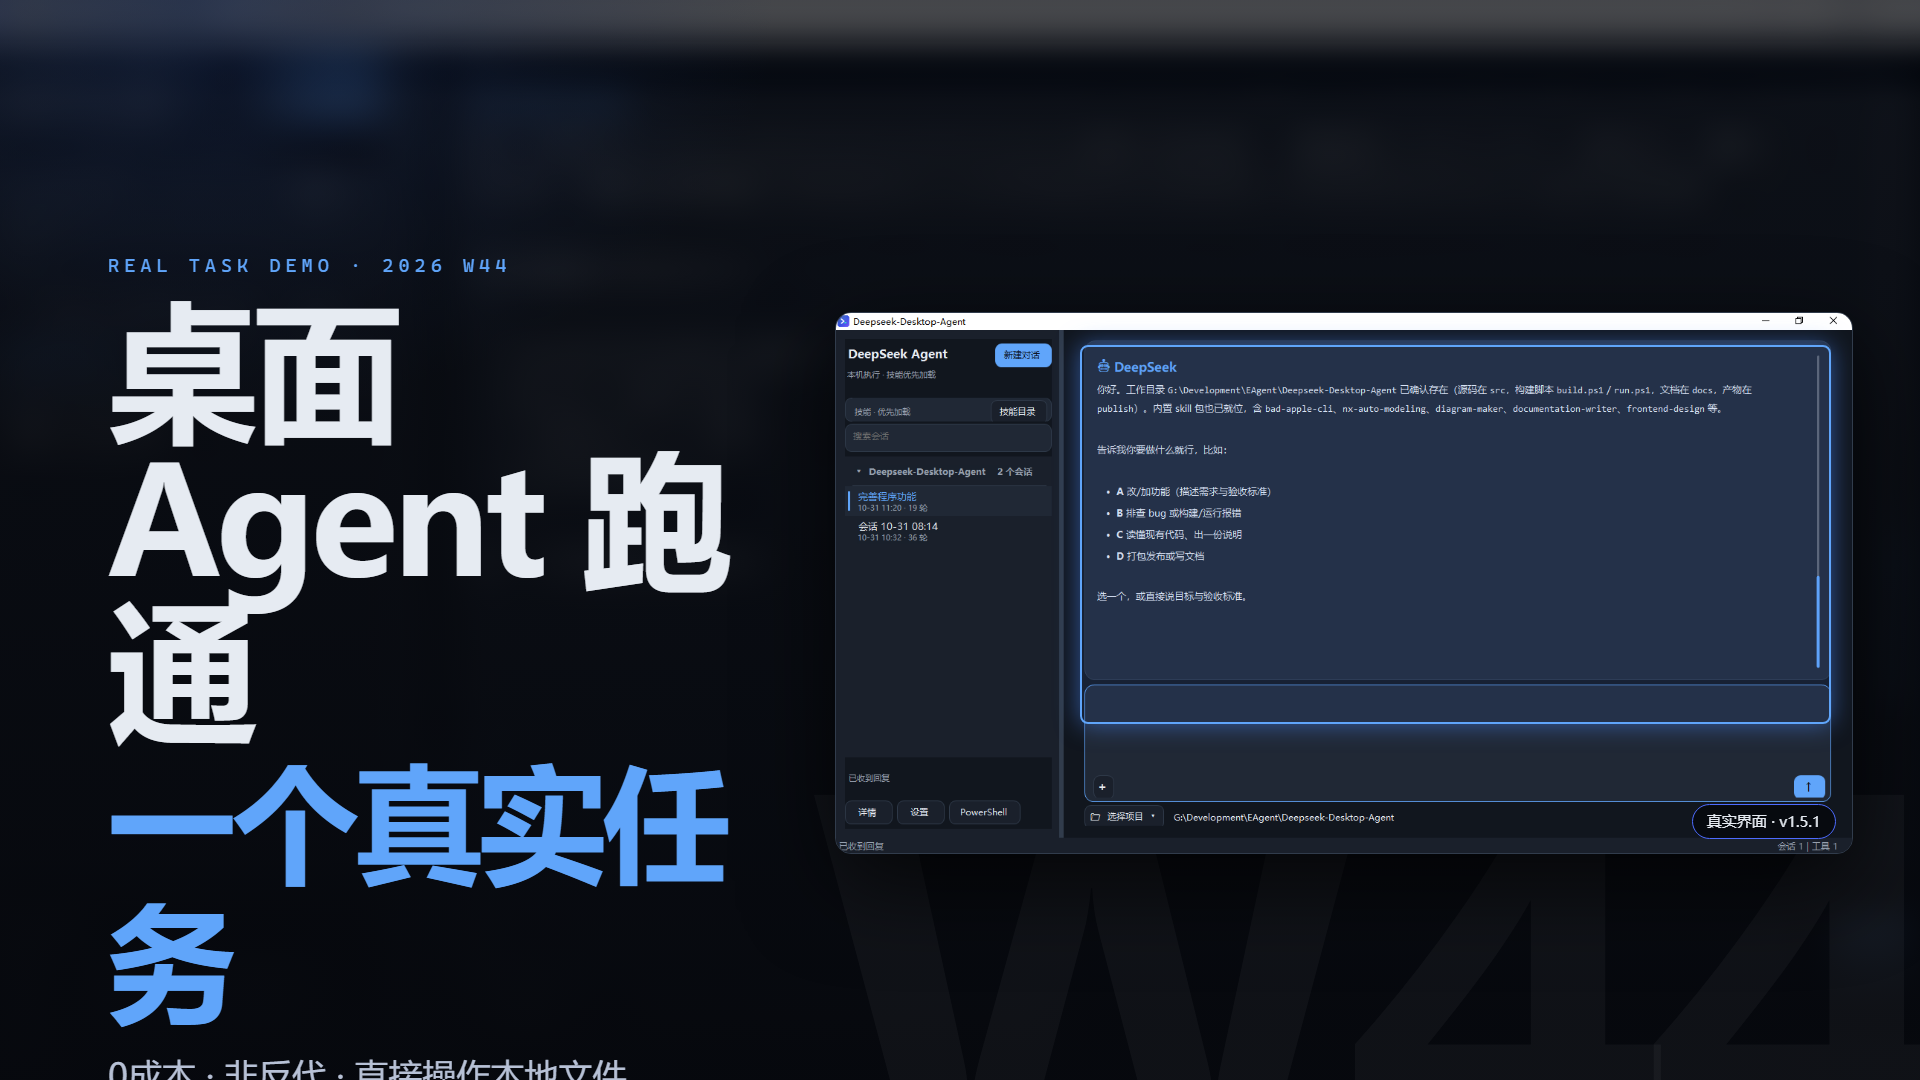
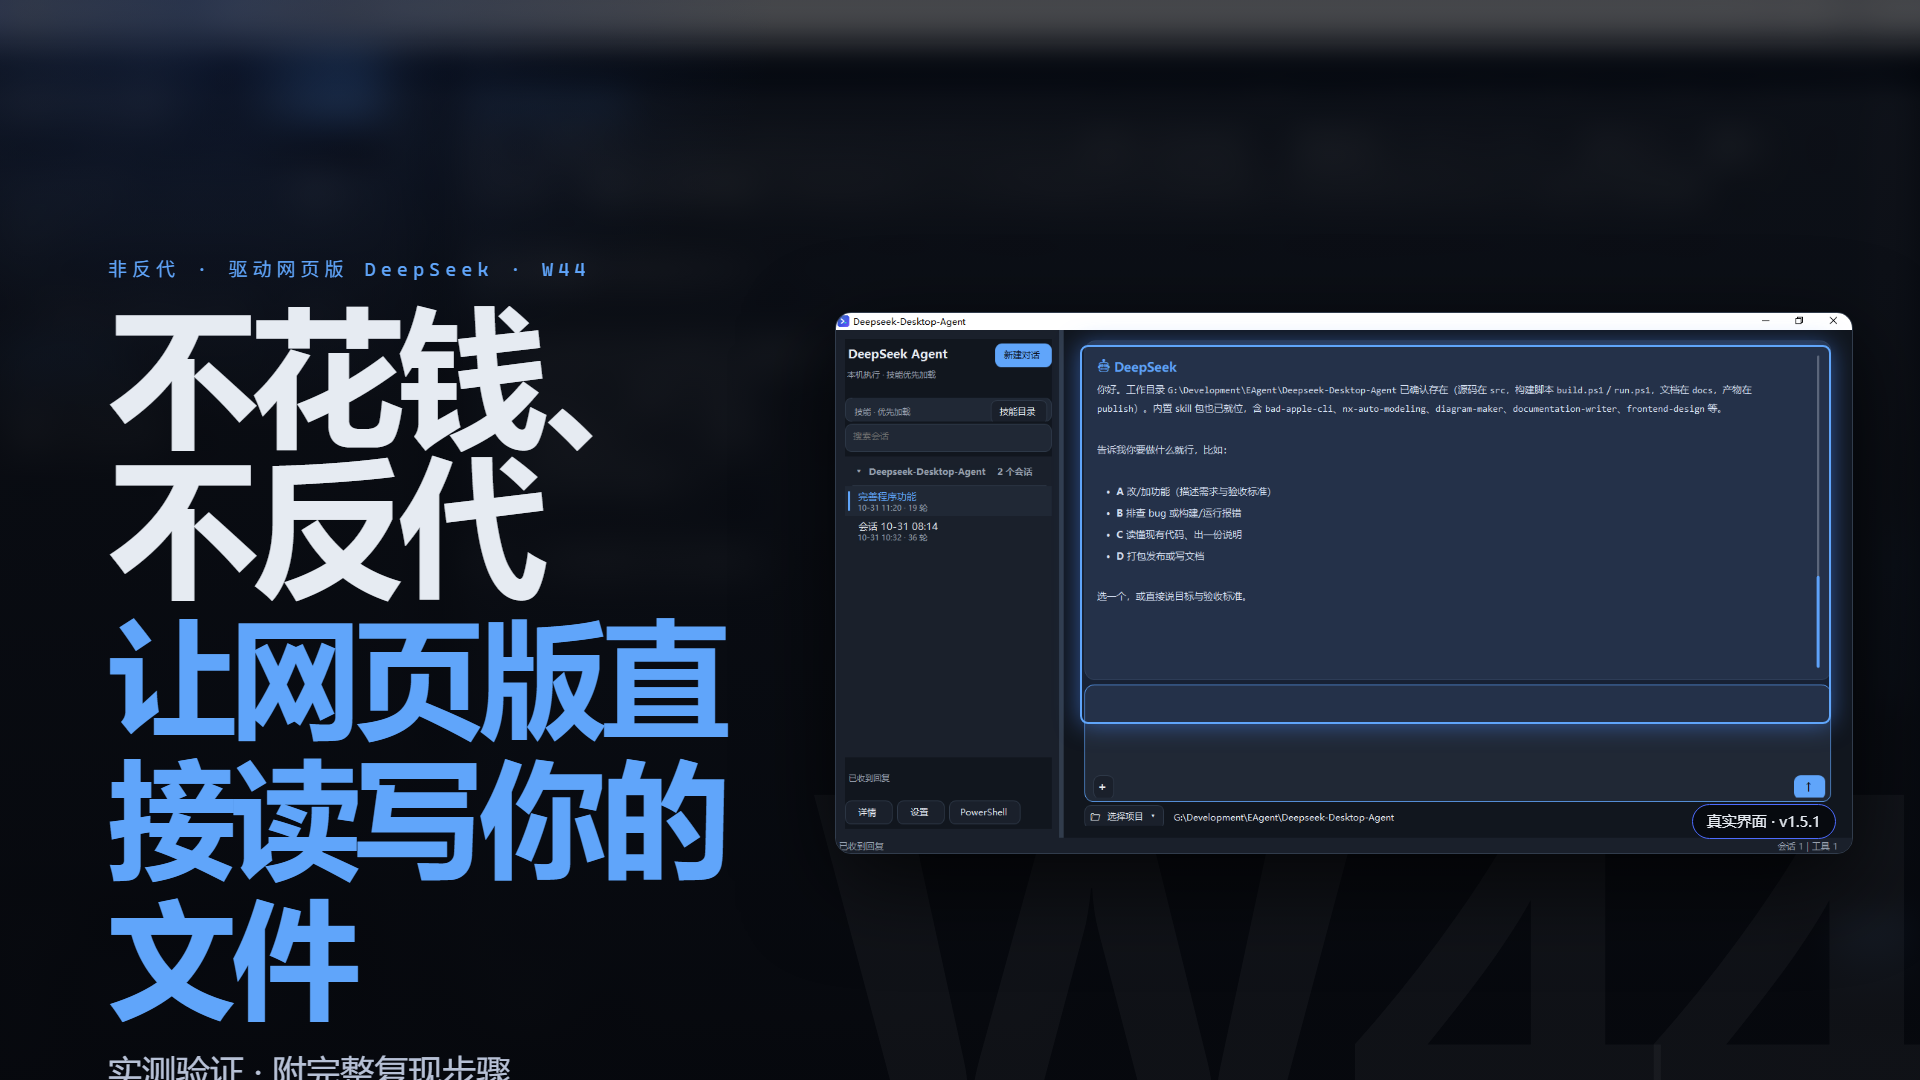
fix: 封面突出产品卖点（非反代、网页版、本地文件）

Changed region(s): [[0.0625, 0.2444, 0.375, 0.9472], [0.0312, 0.9778, 0.3438, 1.0], [0.2812, 0.2444, 0.3125, 0.275]]

diff --git a/Works/remotion-intro/src/WeeklyCover.tsx b/Works/remotion-intro/src/WeeklyCover.tsx
@@ -40,7 +40,7 @@ export const WeeklyCover: React.FC = () => {
 
       <div style={{ position: "absolute", left: marginX, top: height * 0.235, width: textW }}>
         <div style={{ fontFamily: MONO, fontSize: 19 * u, color: C.accent, letterSpacing: 5 * u }}>
-          REAL TASK DEMO · 2026 W44
+          非反代 · 驱动网页版 DeepSeek · W44
         </div>
         <div
           style={{
@@ -52,7 +52,7 @@ export const WeeklyCover: React.FC = () => {
             color: C.text,
           }}
         >
-          桌面 Agent 跑通
+          不花钱、不反代
         </div>
         <div
           style={{
@@ -64,12 +64,10 @@ export const WeeklyCover: React.FC = () => {
             color: C.accent,
           }}
         >
-          一个真实任务
+          让网页版直接读写你的文件
         </div>
         <div style={{ marginTop: 20 * u, fontSize: 34 * u, color: "#B7C1D6", lineHeight: 1.4 }}>
-          0成本 · 非反代 · 直接操作本地文件
-          <br />
-          附完整复现步骤
+          实测验证 · 附完整复现步骤
         </div>
         <div style={{ marginTop: 26 * u, display: "flex", flexWrap: "wrap", gap: 12 * u }}>
           {["7 次提交", "9 项修复", "v1.5.1"].map((t) => (
